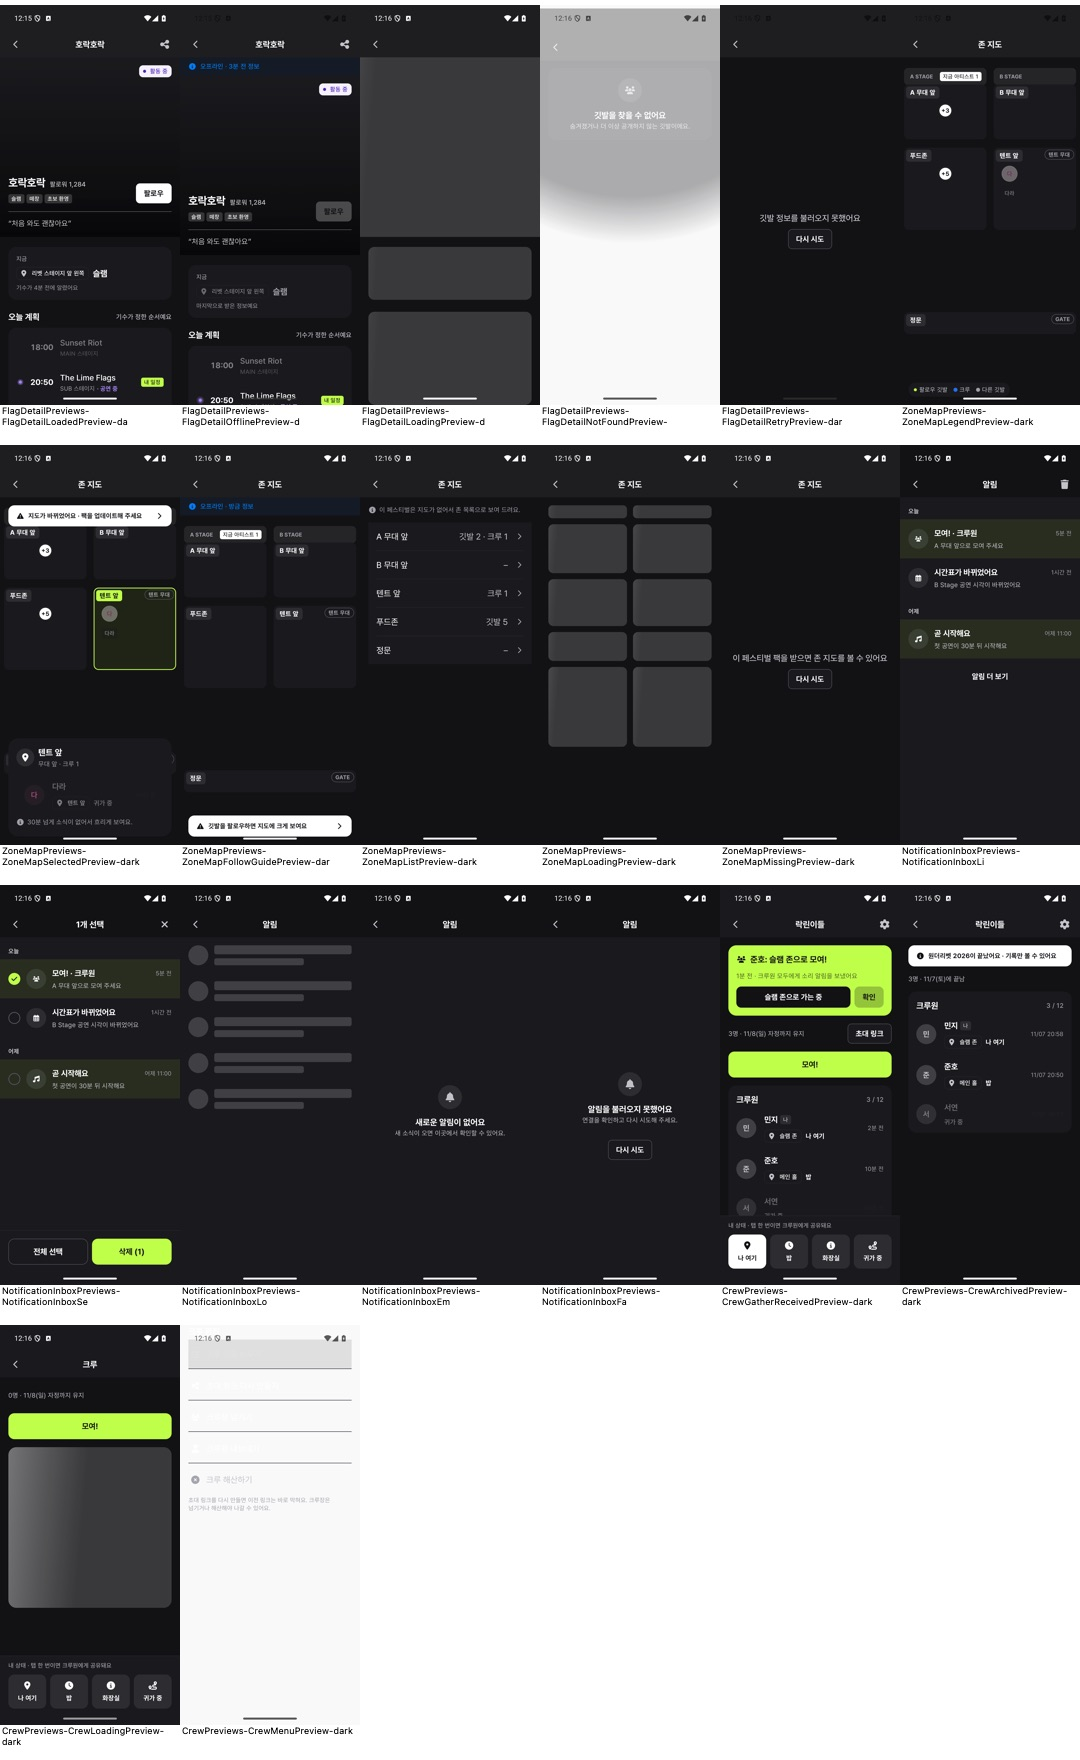
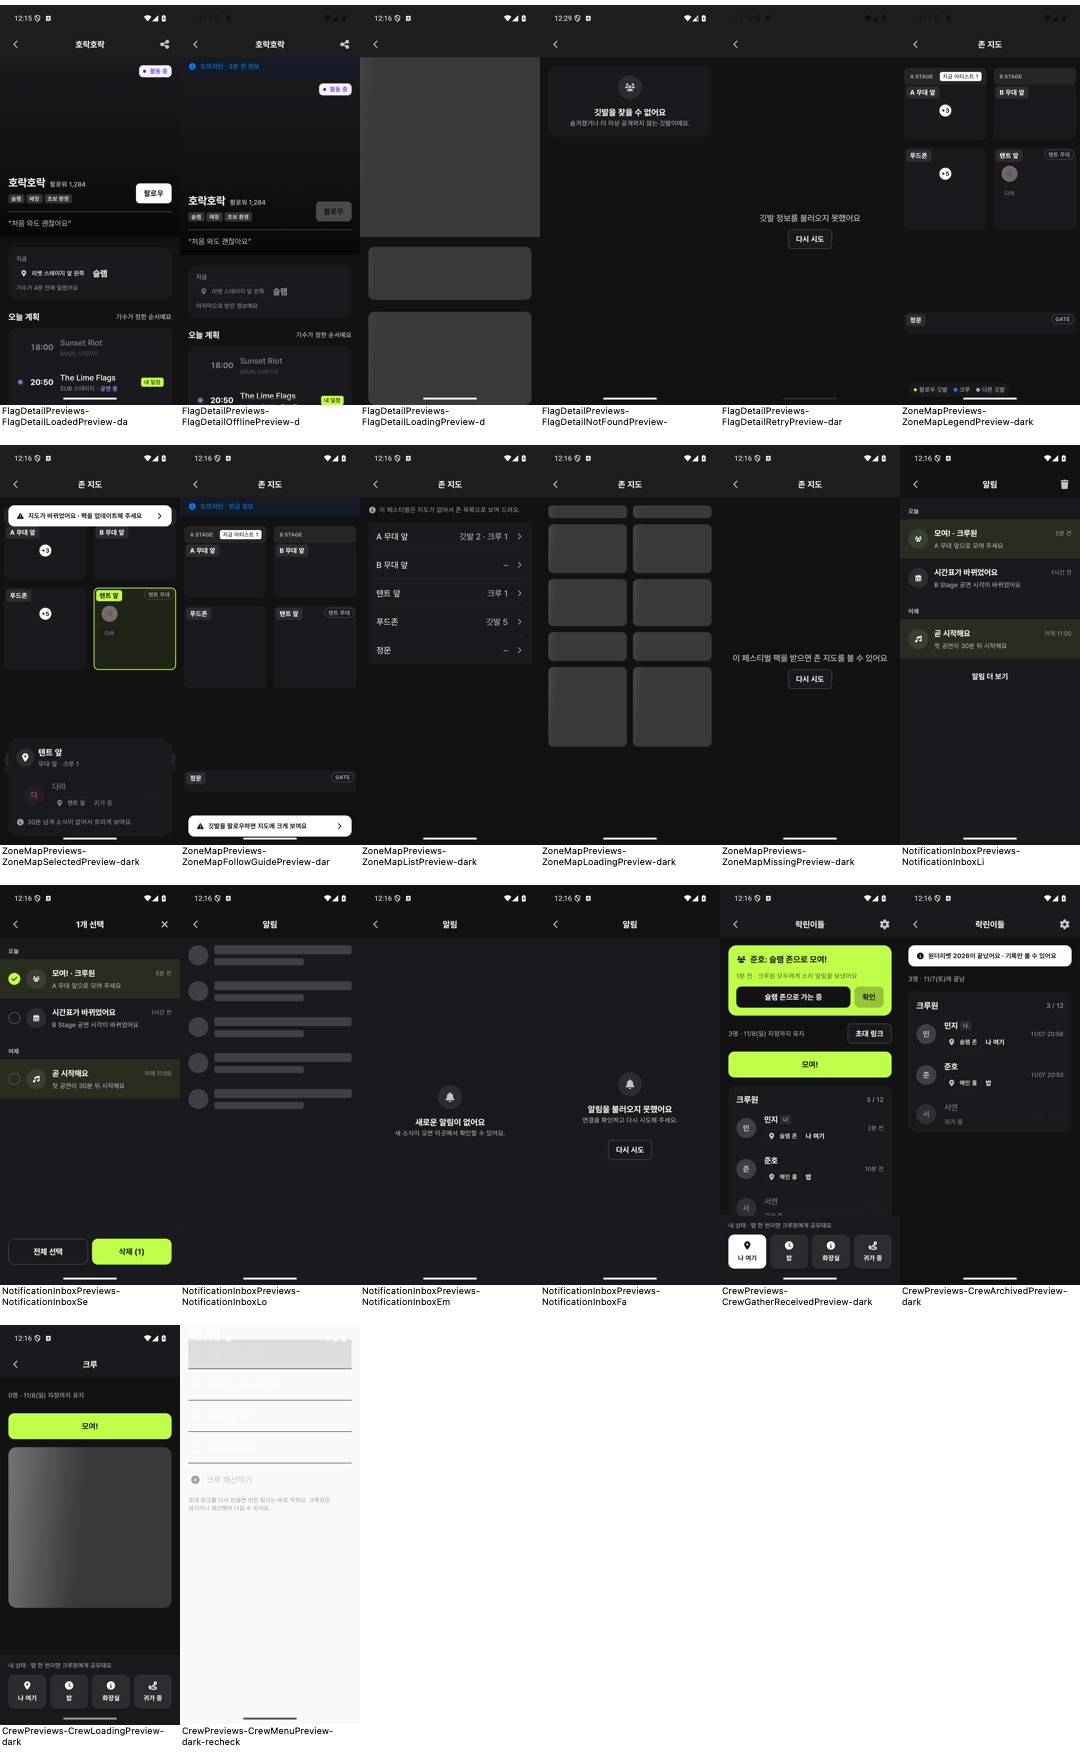
전환 중 다크 캡처를 다시 찍고 시트 검증 한계를 명시한다 #239

Changed region(s): [[0.4889, 0.0, 0.6722, 0.25]]

diff --git a/docs/design-parity-20261128/REPORT.md b/docs/design-parity-20261128/REPORT.md
@@ -65,3 +65,7 @@ adb -s emulator-5554 exec-out screencap -p > s02.png
 - 수정 후 `.claude/scripts/verify` 성공: hooks 32개, 경계·포맷, 196 suites / 1,511 tests, 실패·오류·skip 0, Stage APK 성공. `FCSetBlockTest` 3개 성공. Prod 검증은 앞선 PR 검증이며 이번에 반복하지 않았다.
 - 단순화 점검: 기존 Preview/Content 재사용, release에 없는 debug 호스트와 1줄 ellipsis 수정, 신규 의존성/API 없음. 원본 체크아웃 및 다른 담당 변경을 되돌리지 않았다.
 - 시스템 night mode는 기존 다크로 복원했다. remote CI 상태는 PR checks에서 최신 HEAD 기준으로 확인한다.
+
+### 다크 이미지 수집 후 점검
+
+기존 220장 contact sheet 검토에서 전환 중 빈 화면/흰색 잔상이 발견되어 18개 다크 fixture를 6초 대기 후 재촬영하고 수집 JSON과 contact sheet의 해당 항목을 교체했다. 선택 이미지 수는 238장으로 같으며 재촬영 원본은 별도 보관했다. 깃발 없음·팩 없음·마이·공지·기수 보드의 빈 화면은 안정 후 실제 내용이 보인다. CrewMenu/Gather, NicknameEdit, BearerZone/ActivityPicker, LoginSheet는 단독 시트 내용 프리뷰여서 외부 시트 배경 없이 흰 Activity 배경이 남는다; 해당 다크 이미지의 배경·인셋·대비는 제품 검증에서 제외한다. 이 현상을 수정된 제품 화면으로 주장하지 않는다.

diff --git a/docs/design-parity-20261128/CAPTURES.md b/docs/design-parity-20261128/CAPTURES.md
@@ -57,3 +57,9 @@ S03 기본/내 일정/진행/종료/변경/겹침, S15 깃발/준비물, S02 수
 
 ![dark 6](captures/overview-dark-6.jpg)
 
+
+## 다크 재확인
+
+전환 중 빈 화면이 있던 항목을 포함한 18개를 6초 대기 후 재촬영하여 위 수집 모음에 교체했다. 단독 시트 내용은 외부 Surface/FCSheet가 없으므로 흰 배경과 인셋을 제품 동작으로 판단하지 않는다. 특히 CrewMenu/Gather, NicknameEdit, BearerZone/ActivityPicker, LoginSheet는 다크 배경·대비 검증에서 제외한다.
+
+![다크 재확인](captures/recheck-dark.jpg)
